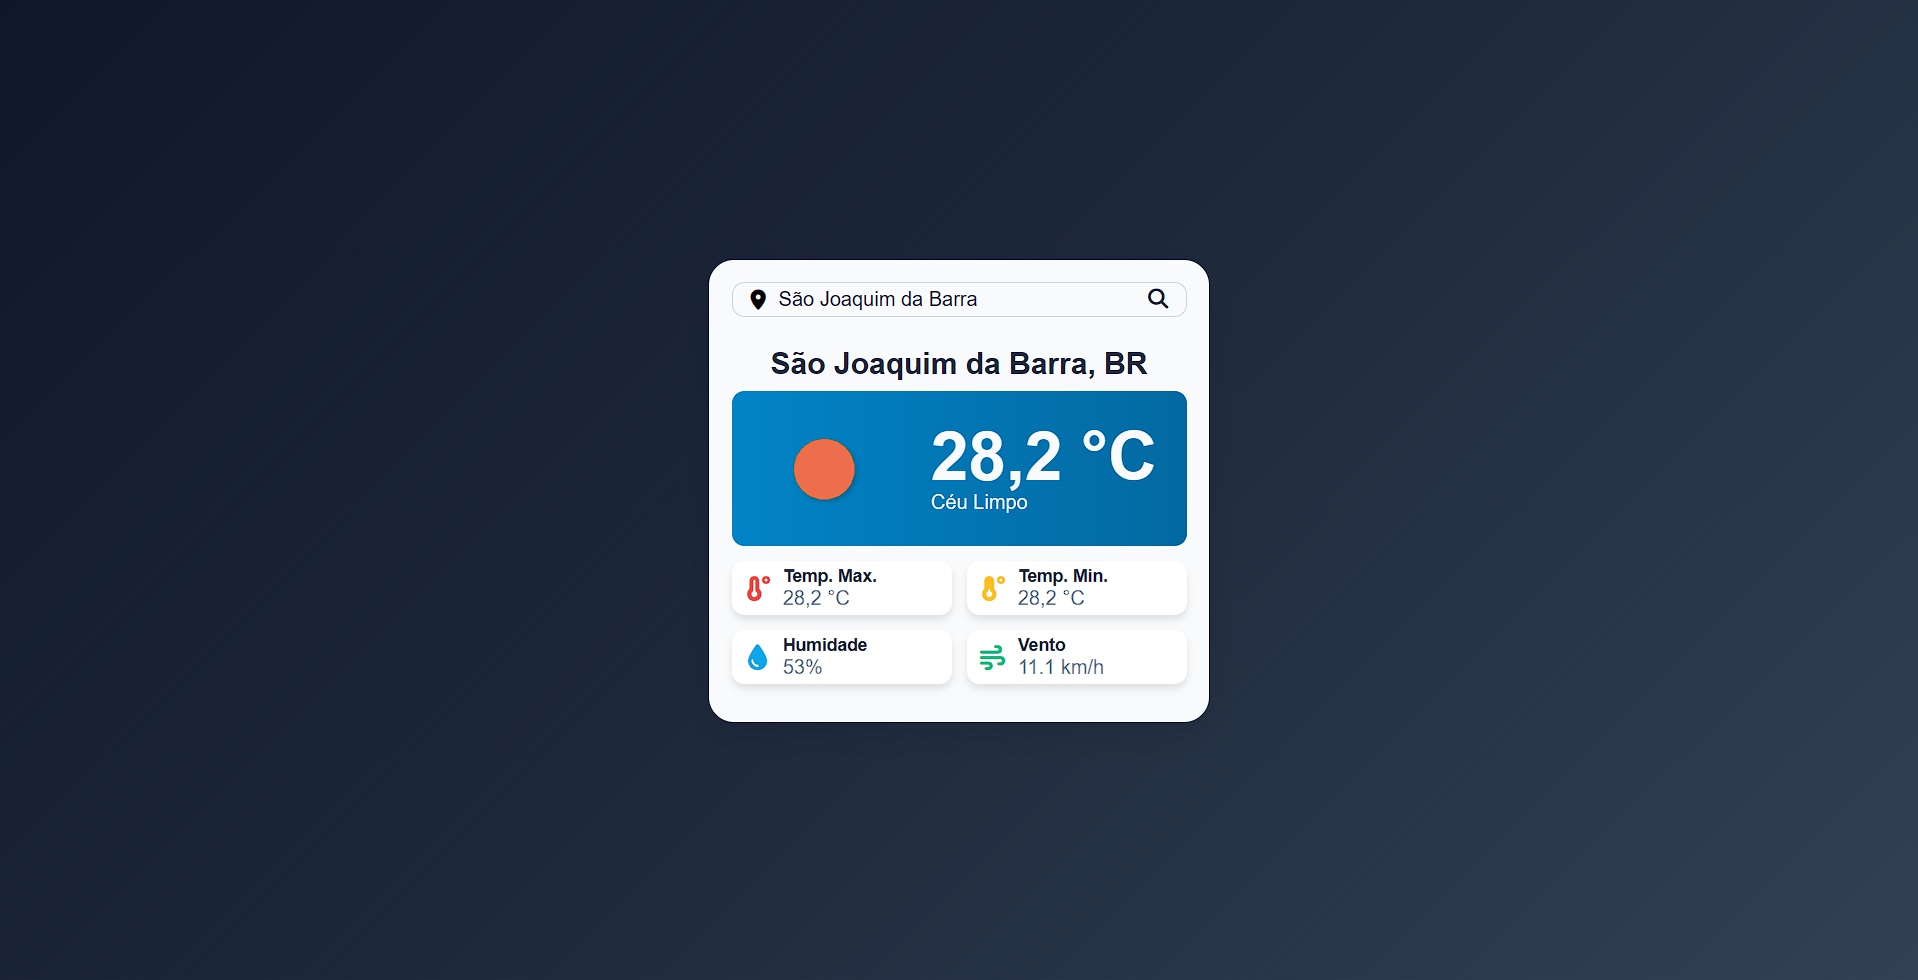
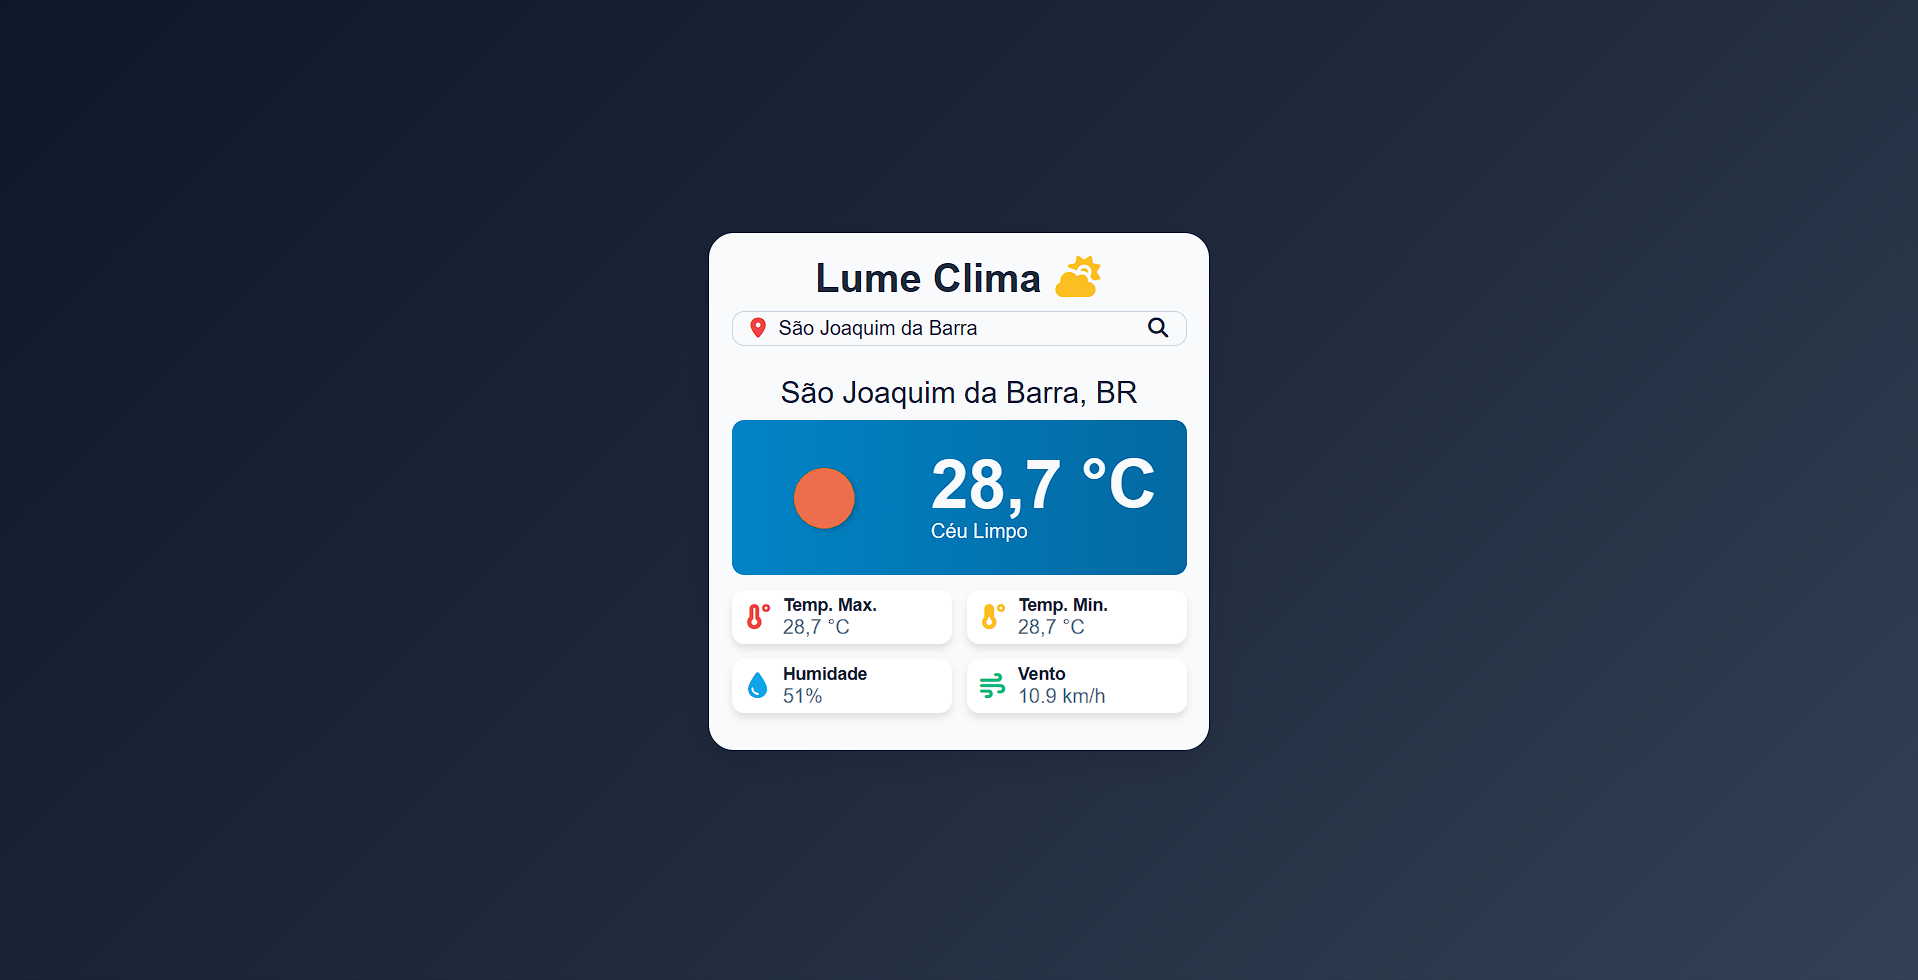
Ajustes finais

Changed region(s): [[0.3691, 0.2143, 0.646, 0.7653]]

diff --git a/src/style/style.css b/src/style/style.css
@@ -43,6 +43,14 @@ main {
     max-width: 400px;
 }
 
+.title {
+    text-align: center;
+    font-size: 32px;
+    font-weight: 600;
+    margin-bottom: 8px;
+    color: var(--text-main);
+}
+
 .search {
     display: flex;
     align-items: center;
@@ -89,10 +97,10 @@ main {
     display: block;
 }
 
-#weather .title {
+#weather .title_city {
     text-align: center;
     font-size: 24px;
-    font-weight: 600;
+    font-weight: 500;
     margin-bottom: 8px;
     color: var(--text-main);
 }
@@ -164,6 +172,8 @@ main {
 .temp_min_icon { color: var(--icon-temp-min); }
 .humidity_icon { color: var(--icon-humidity); }
 .wind_icon { color: var(--icon-wind); }
+.title_icon { color: var(--icon-temp-min); }
+.search_icon { color: var(--icon-temp-max); }
 
 .alert {
     display: flex;

diff --git a/src/javascript/script.js b/src/javascript/script.js
@@ -43,7 +43,7 @@ function showInfo(json) {
     showAlert('');
     document.querySelector('#weather').classList.add('show');
 
-    document.querySelector('.title').innerHTML = `${json.city}, ${json.country}`;
+    document.querySelector('.title_city').innerHTML = `${json.city}, ${json.country}`;
     document.querySelector('.temp_value').innerHTML = `${json.temp.toFixed(1).replace('.', ',')} <span>°C</span>`;
     document.querySelector('.temp_description').innerHTML = json.description;
     document.querySelector('.temp_img').setAttribute('src', `http://openweathermap.org/img/wn/${json.tempIcon}@2x.png`);

diff --git a/index.html b/index.html
@@ -17,8 +17,9 @@
   </head>
   <body>
     <main>
+      <h1 class="title">Lume Clima <i class="fa-solid fa-cloud-sun title_icon"></i></h1>
       <form class="search">
-        <i class="fa-solid fa-location-dot"></i>
+        <i class="fa-solid fa-location-dot search_icon"></i>
         <input
           type="search"
           name="city_name"
@@ -31,7 +32,7 @@
         </button>
       </form>
       <section id="weather">
-        <h1 class="title">SJB</h1>
+        <h2 class="title_city">SJB</h2>
         <div class="infos">
           <div class="temp">
             <img
